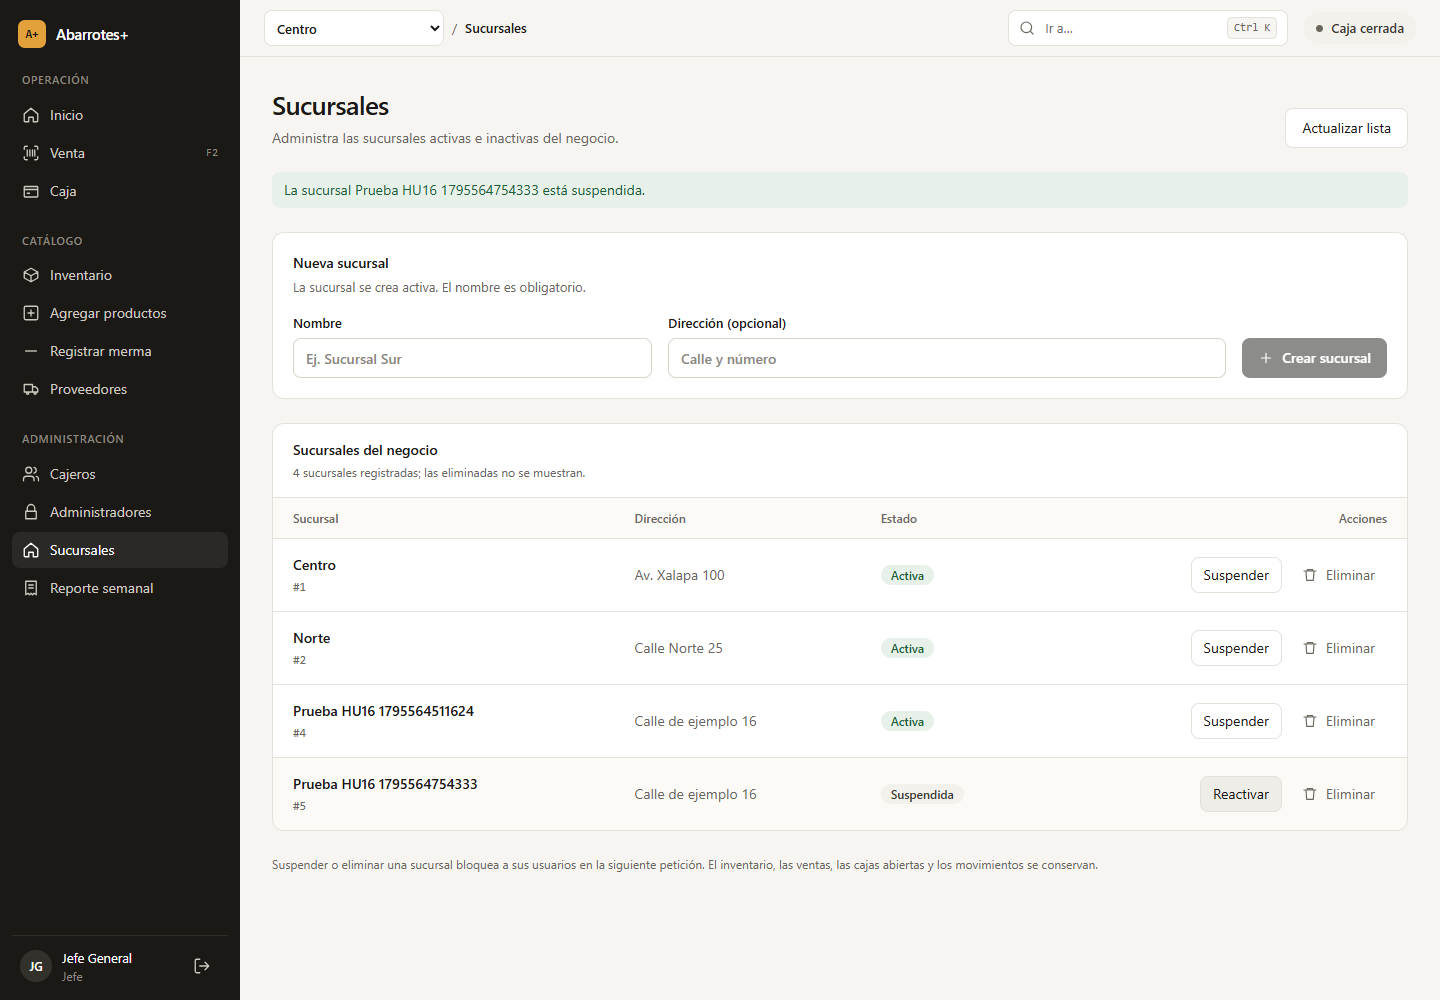
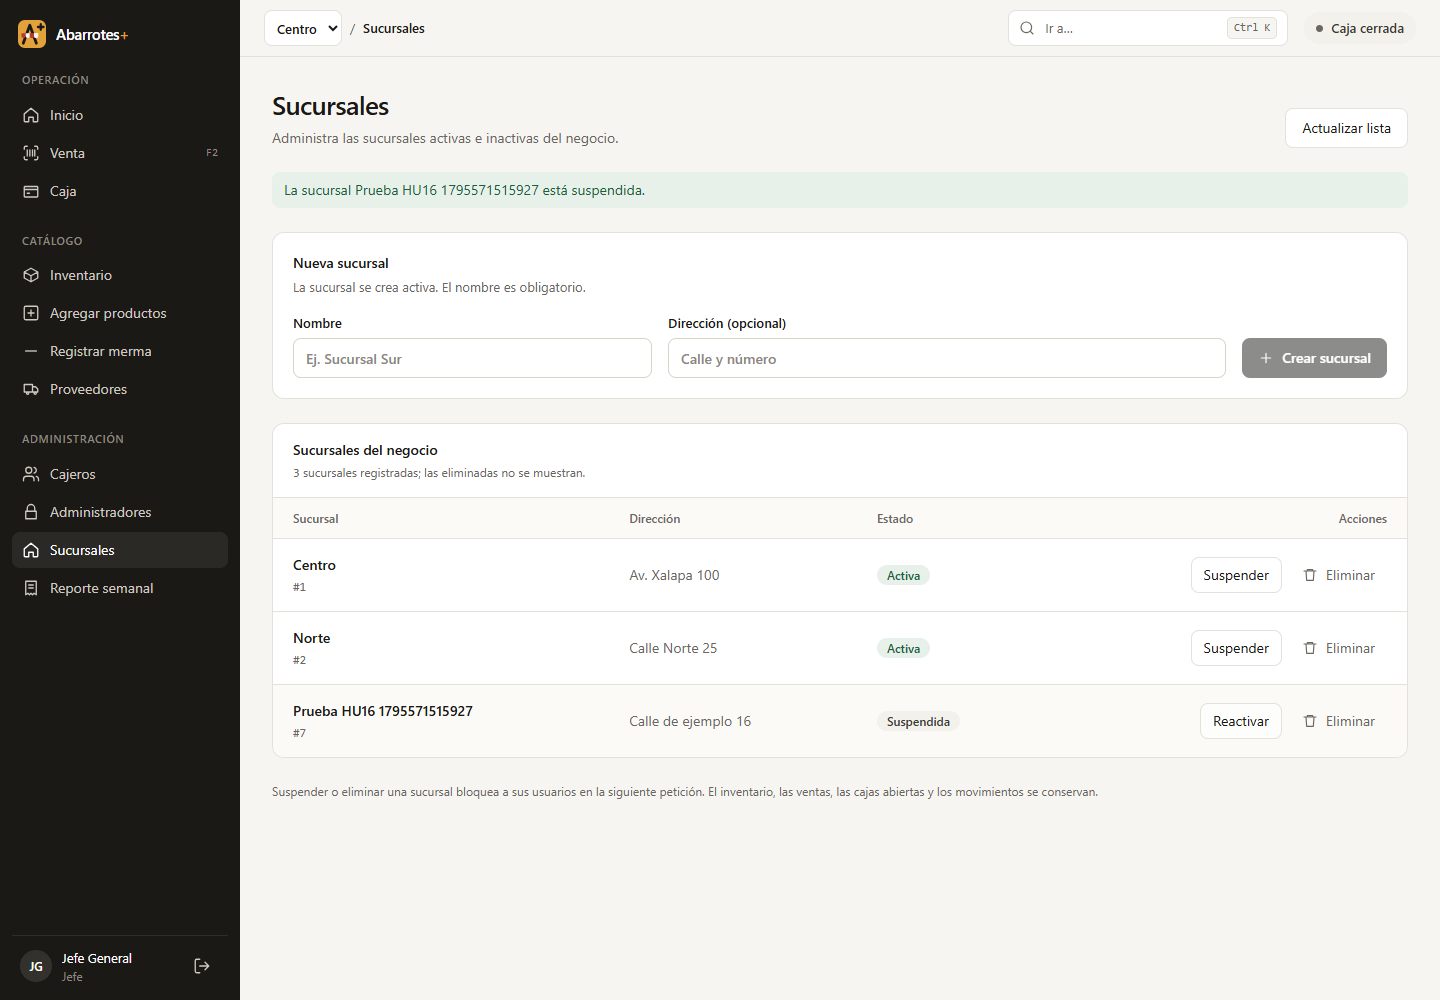
feat(sucursales): usa confirmaciones de teclado y actualiza evidencias [HU-16]

diff --git a/apps/web/src/features/sucursales/SucursalesPage.tsx b/apps/web/src/features/sucursales/SucursalesPage.tsx
@@ -1,6 +1,7 @@
 import { useEffect, useRef, useState, type FormEvent } from 'react'
 import { api, ApiError } from '../../api/client'
 import { avisarCambioSucursales } from '../../components/Layout'
+import { useConfirmar } from '../../components/Confirmar'
 import { Icono } from '../../components/Icono'
 import {
   Aviso,
@@ -25,6 +26,7 @@ const ordenar = (lista: SucursalGestion[]) =>
   [...lista].sort((a, b) => a.nombre.localeCompare(b.nombre, 'es') || a.id - b.id)
 
 export function SucursalesPage() {
+  const confirmar = useConfirmar()
   const [sucursales, setSucursales] = useState<SucursalGestion[]>([])
   const [cargando, setCargando] = useState(true)
   const [intento, setIntento] = useState(0)
@@ -85,13 +87,17 @@ export function SucursalesPage() {
     })
   }
 
-  function cambiar(sucursal: SucursalGestion) {
+  async function cambiar(sucursal: SucursalGestion) {
     const suspender = sucursal.estado === 'ACTIVO'
     if (
       suspender &&
-      !window.confirm(
-        `¿Suspender la sucursal ${sucursal.nombre}? Sus usuarios no podrán entrar y sus sesiones quedarán bloqueadas en la siguiente petición. Se conservarán las cajas abiertas, el inventario y el historial.`,
-      )
+      !(await confirmar({
+        titulo: `¿Suspender la sucursal ${sucursal.nombre}?`,
+        detalle:
+          'Sus usuarios no podrán entrar y sus sesiones quedarán bloqueadas en la siguiente petición. Las cajas abiertas, el inventario y el historial se conservan.',
+        aceptar: 'Suspender',
+        peligro: true,
+      }))
     )
       return
     void ejecutar(async () => {
@@ -107,11 +113,15 @@ export function SucursalesPage() {
     })
   }
 
-  function eliminar(sucursal: SucursalGestion) {
+  async function eliminar(sucursal: SucursalGestion) {
     if (
-      !window.confirm(
-        `¿Eliminar la sucursal ${sucursal.nombre}? Dejará de aparecer en las listas y sus usuarios no podrán entrar. Se conservarán las cajas abiertas, el inventario y el historial. Esta acción no se puede deshacer desde esta pantalla.`,
-      )
+      !(await confirmar({
+        titulo: `¿Eliminar la sucursal ${sucursal.nombre}?`,
+        detalle:
+          'Dejará de aparecer en las listas y sus usuarios no podrán entrar. Las cajas abiertas, el inventario y el historial se conservan. Esta acción no se puede deshacer desde esta pantalla.',
+        aceptar: 'Eliminar',
+        peligro: true,
+      }))
     )
       return
     void ejecutar(async () => {
@@ -221,7 +231,7 @@ export function SucursalesPage() {
                 </p>
               </div>
               <div className="overflow-x-auto">
-                <table className="w-full min-w-[640px] text-sm">
+                <table id="sucursales-lista" data-flechas className="w-full min-w-[640px] text-sm">
                   <caption className="sr-only">Lista de sucursales y acciones de gestión</caption>
                   <thead className="bg-hueso text-left text-xs text-piedra">
                     <tr>

diff --git a/docs/scrum/dailies/2026-11-24.md b/docs/scrum/dailies/2026-11-24.md
@@ -8,9 +8,9 @@ Sprint 4 — día 9 de 14. Registro asíncrono de Miguel Angel Marcelo Taracena;
 |---|---|---|---|
 | Luis David Sosa Fernández | | | |
 | Gonzalo Mendoza Herrera | | | |
-| Miguel Angel Marcelo Taracena | Implementé HU-16: API de sucursales (T-28), bloqueo de sesiones de sucursal inactiva (T-29) y pantalla del jefe (T-30), con 24 pruebas nuevas y evidencia de escritorio/móvil. | Enviar el PR a Sosa y atender su revisión; demostrar alta, suspensión, reactivación y borrado lógico. | Sin dudas de alcance abiertas: confirmé bloqueo en la siguiente petición y conservación de cajas abiertas. La primera ejecución agotó límites de tiempo del equipo; la repetición completa de API pasó con un margen de 20 s. |
+| Miguel Angel Marcelo Taracena | Implementé HU-16: API de sucursales (T-28), bloqueo de sesiones de sucursal inactiva (T-29) y pantalla del jefe (T-30), con 24 pruebas nuevas y evidencia de escritorio/móvil. | Enviar el PR a Sosa y atender su revisión; demostrar alta, suspensión, reactivación y borrado lógico. | Sin dudas de alcance abiertas: confirmé bloqueo en la siguiente petición y conservación de cajas abiertas. La suite general detectó una espera de transacción en la subida simultánea de imágenes (T-34), reproducida también en develop sin HU-16; queda documentada para el revisor. |
 
-**Verificación:** 34 pruebas web y 195 API aprobadas; revisión de tipos y estilo correcta. Flujo probado en navegador, incluidos cancelar confirmaciones, recarga, error/reintento y permisos.
+**Verificación:** 37 pruebas web aprobadas; 24 pruebas nuevas de HU-16 aprobadas; la ejecución de API final obtiene 201 de 202 aprobadas; revisión de tipos y estilo correcta. Flujo probado en navegador, incluidos Enter para confirmar, Esc para cancelar, recarga, error/reintento, selector y permisos.
 
 HU-16 sigue pendiente de revisión e integración; sus 8 puntos no se cuentan como terminados hasta que Sosa integre el PR. El backlog y el burndown los actualiza Sosa.
 
